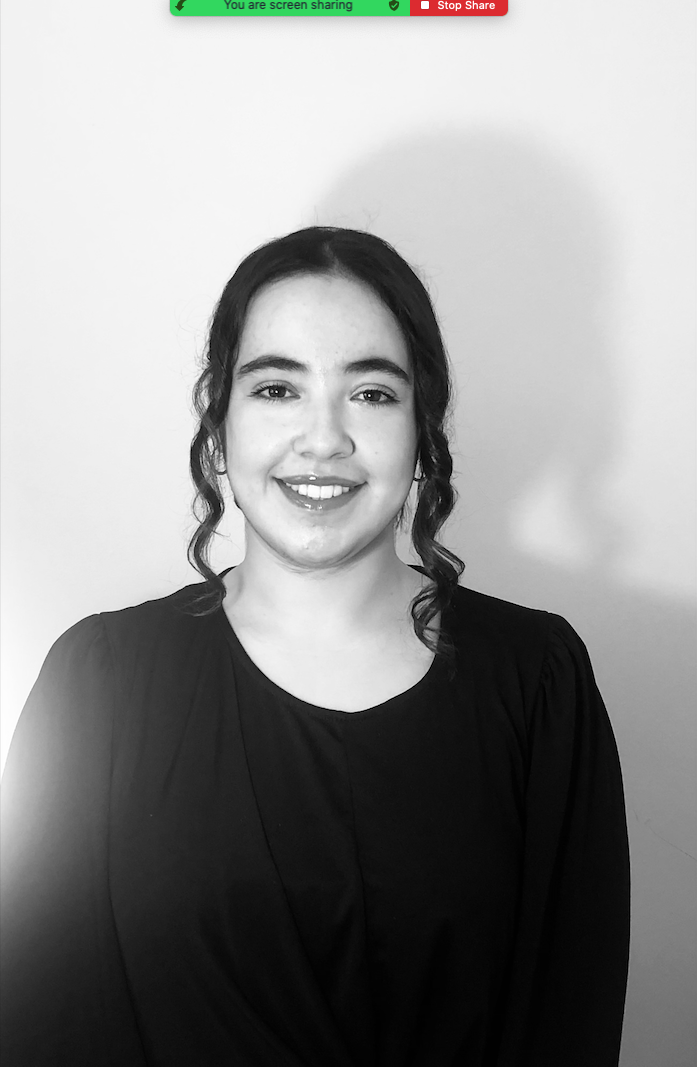
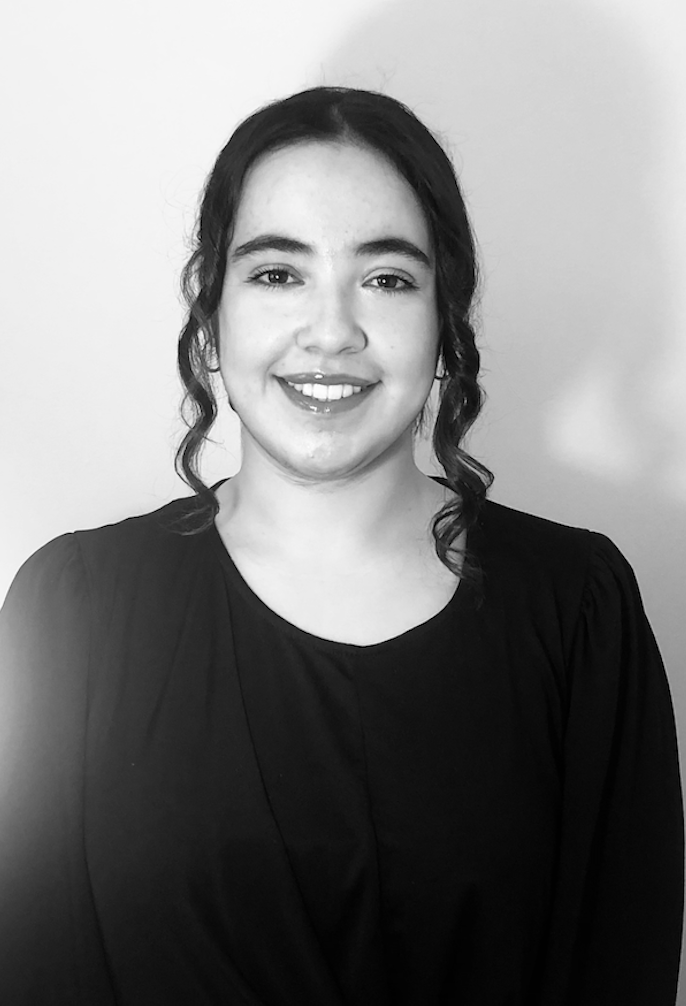
uploading pictures

diff --git a/style.css b/style.css
@@ -69,9 +69,12 @@ nav ul li a:hover::after{
     color:#ff004f;
 }
 /*-----------about-------*/
-#about{
-    padding:80px 0;
-    color:#ababab;
+
+#about {
+    padding: 80px 0;
+    color: #ababab;
+    border-radius: 8px;
+    width: 1000px;
 }
 .row{
     display:flex;
@@ -360,3 +363,15 @@ nav.fas{
     margin-top: -40px;
     display:block;
 }
+.Mylogo {
+    display: inline-block;
+    border: 1px solid #ddd;
+    border-radius: 4px;
+    padding: 5px;
+    height: 150px; /* Set the height instead of width */
+  }
+  
+.Mylogo:hover {
+    box-shadow: 0 0 2px 1px rgba(0, 140, 186, 0.5);
+  }
+  

diff --git a/index.html b/index.html
@@ -12,7 +12,7 @@
 <div class="header">
    <div class="container"> 
       <nav>
-         <img src="mylogo.png" alt="logo">
+         <img class="Mylogo" src="mylogo.png" alt="logo">
          <ul id="sidemenu">
             <li><a href="#header">Home</a></li>
             <li><a href="#about">About</a></li>
@@ -36,7 +36,7 @@
    <div class="container">
       <div class="row">
          <div class=" 1">
-            <img src="personel-portfolio/restaurant.JPG">
+            <img src="about.png">
          </div>
          <div class="about-col-2">
             <h1 class="sub-title">About Me</h1>
